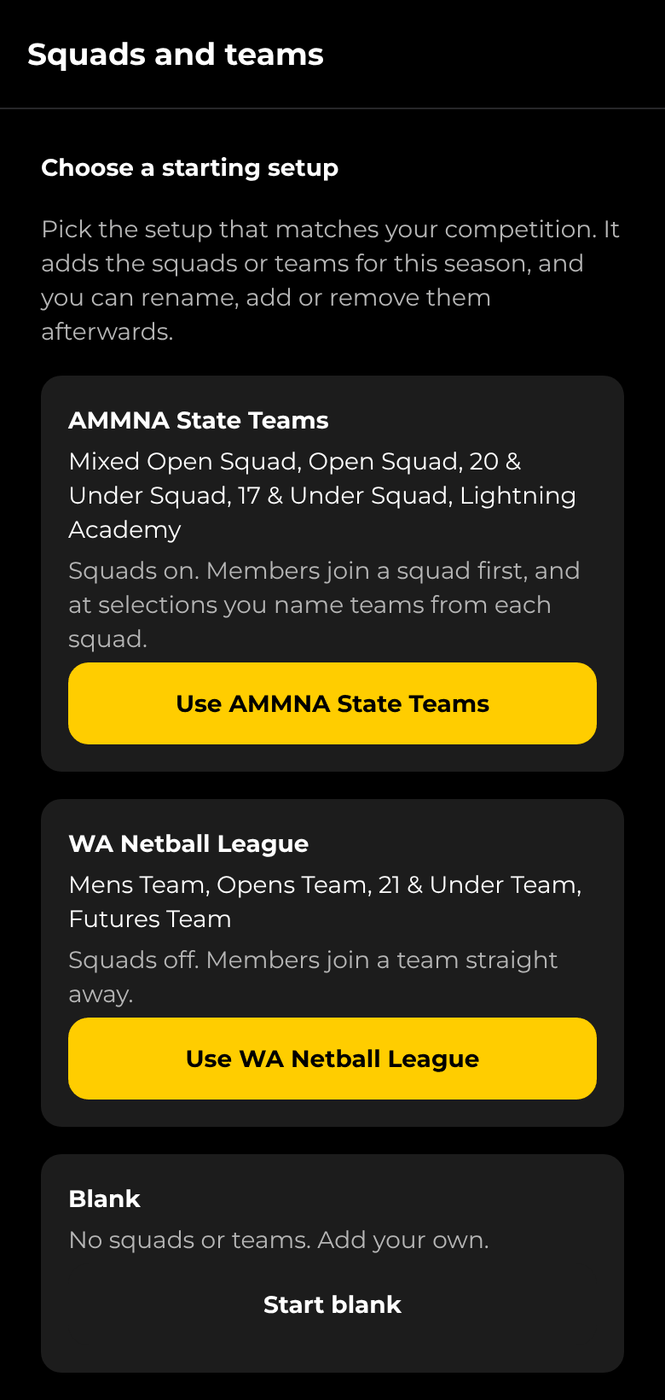
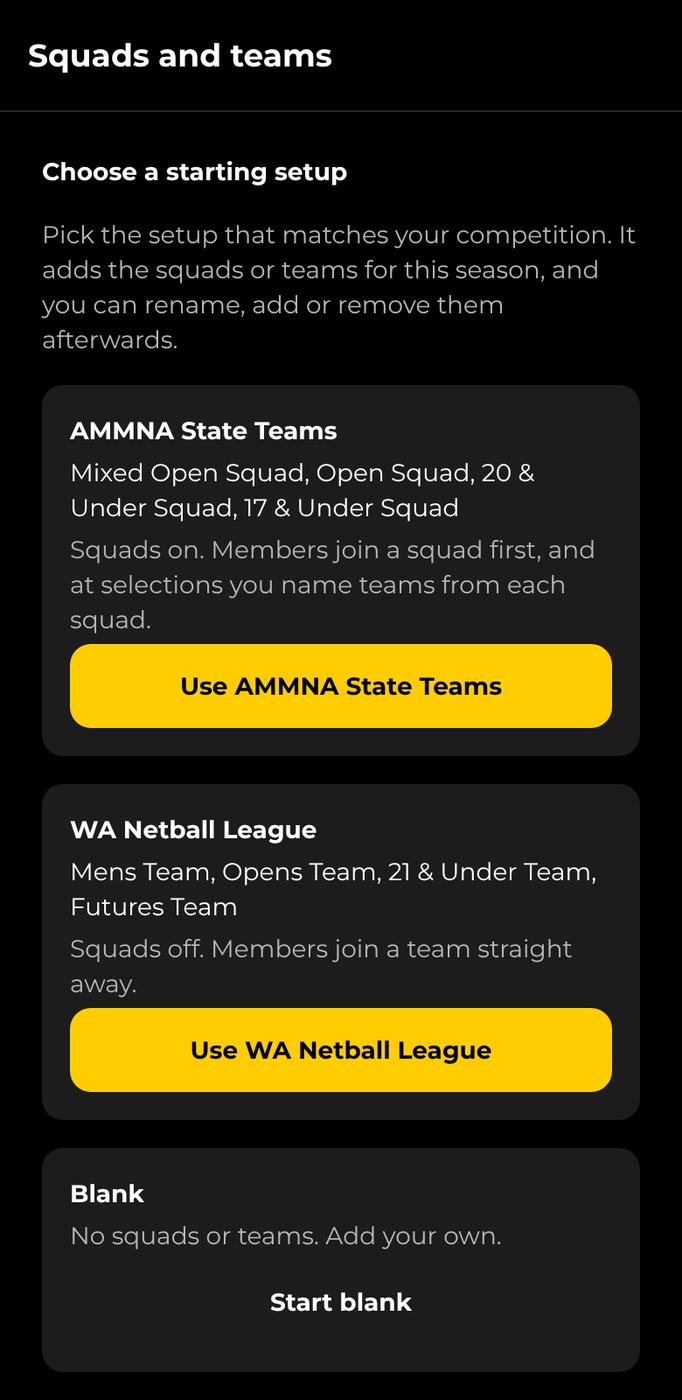
Take Lightning Academy out of the AMMNA State Teams starting setup
The AMMNA setup now makes four squads. Clubs that already chose it keep
their squads; no rows change.

Claude-Session: https://claude.ai/code/session_019HSmiBQYTFvTqvoy8mS7XM

Changed region(s): [[0.0602, 0.0921, 0.9323, 0.8907], [0.0301, 0.0307, 0.4812, 0.0614], [0.391, 0.9214, 0.6015, 0.9521]]

diff --git a/src/__tests__/admin-groups-screens.test.tsx b/src/__tests__/admin-groups-screens.test.tsx
@@ -350,7 +350,7 @@ describe('a club’s starting setup', () => {
   it('asks a new club to choose a setup, and applies the one chosen', async () => {
     await openSquads({ current: [], template: null });
     expect(screen.getByText('Choose a starting setup')).toBeTruthy();
-    expect(screen.getByText('Mixed Open Squad, Open Squad, 20 & Under Squad, 17 & Under Squad, Lightning Academy')).toBeTruthy();
+    expect(screen.getByText('Mixed Open Squad, Open Squad, 20 & Under Squad, 17 & Under Squad')).toBeTruthy();
     // Nothing to add to until a setup is chosen, and no way out of choosing.
     expect(screen.queryByText('Add a squad or team')).toBeNull();
     expect(screen.queryByText('Cancel')).toBeNull();

diff --git a/src/lib/team-templates.ts b/src/lib/team-templates.ts
@@ -12,7 +12,6 @@ export const TEAM_TEMPLATES = [
       'Open Squad',
       '20 & Under Squad',
       '17 & Under Squad',
-      'Lightning Academy',
     ],
     detail:
       'Squads on. Members join a squad first, and at selections you name teams from each squad.',

diff --git a/docs/user-guide.md b/docs/user-guide.md
@@ -2967,8 +2967,8 @@ teams you changed, so their parents' **What's changed** lists only real moves.
 **Starting setup.** A new club starts with no squads or teams. The first time an admin opens
 **Squads and teams**, they choose a starting setup to match the club's competition:
 
-- **AMMNA State Teams**: five squads (Mixed Open Squad, Open Squad, 20 & Under Squad, 17 & Under
-  Squad, Lightning Academy) with squads on. Members join a squad and teams are named from it at
+- **AMMNA State Teams**: four squads (Mixed Open Squad, Open Squad, 20 & Under Squad and 17 & Under
+  Squad) with squads on. Members join a squad and teams are named from it at
   selections.
 - **WA Netball League**: four teams (Mens Team, Opens Team, 21 & Under Team, Futures Team) with
   squads off. Members join a team straight away.
